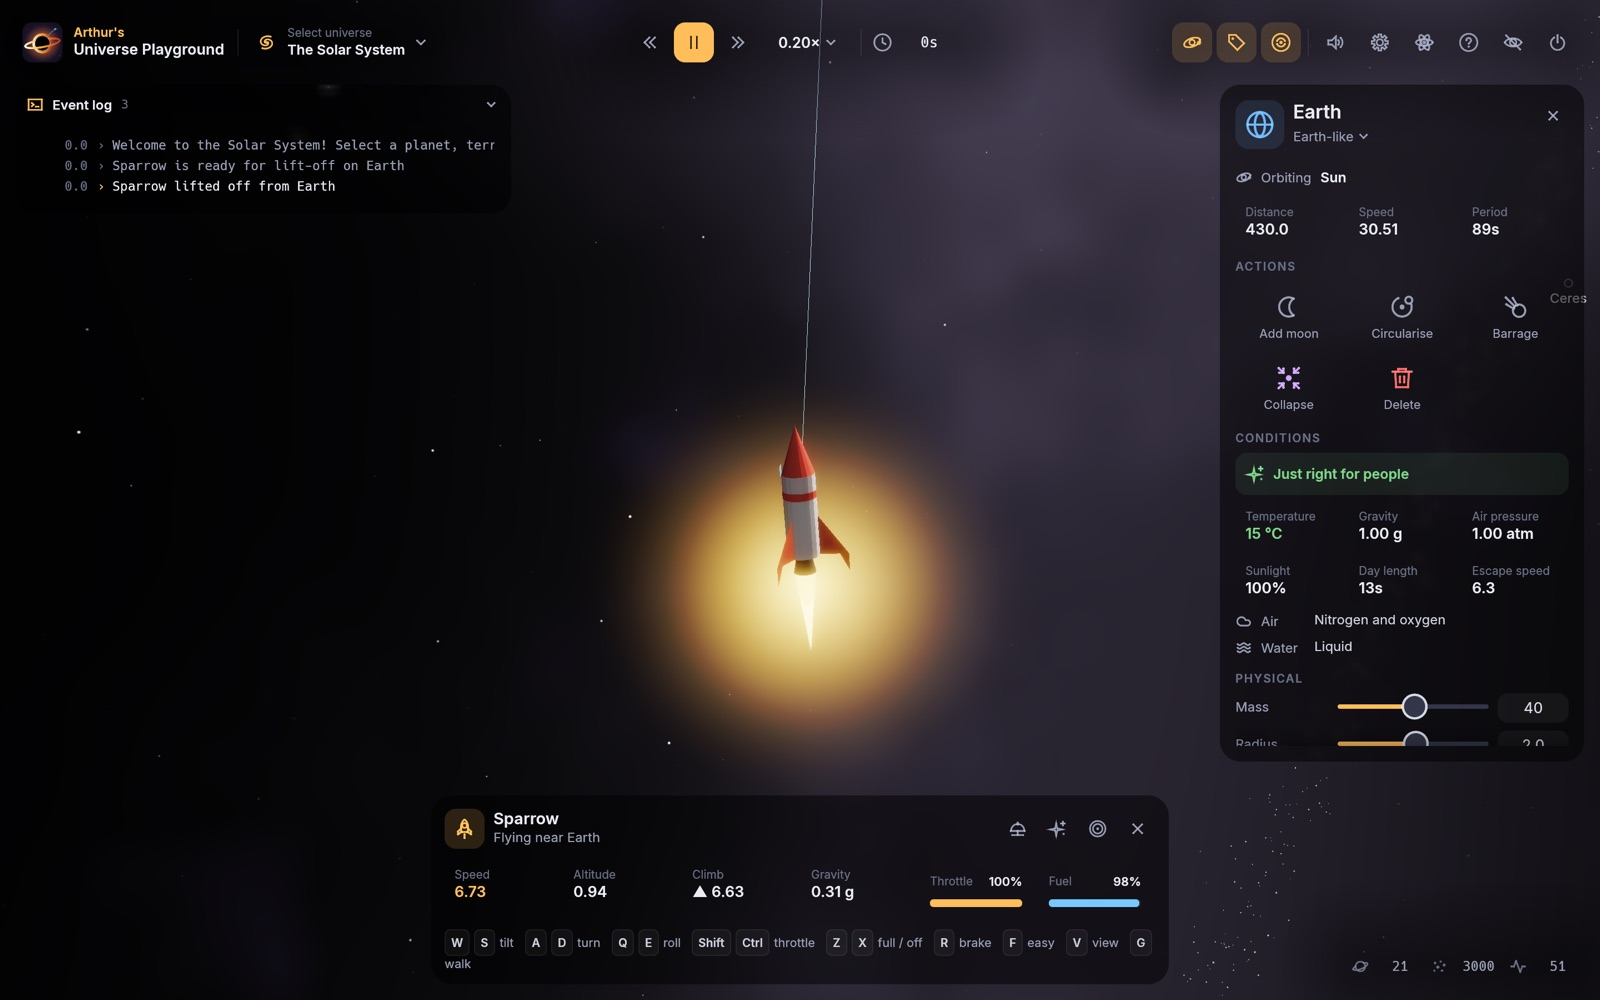
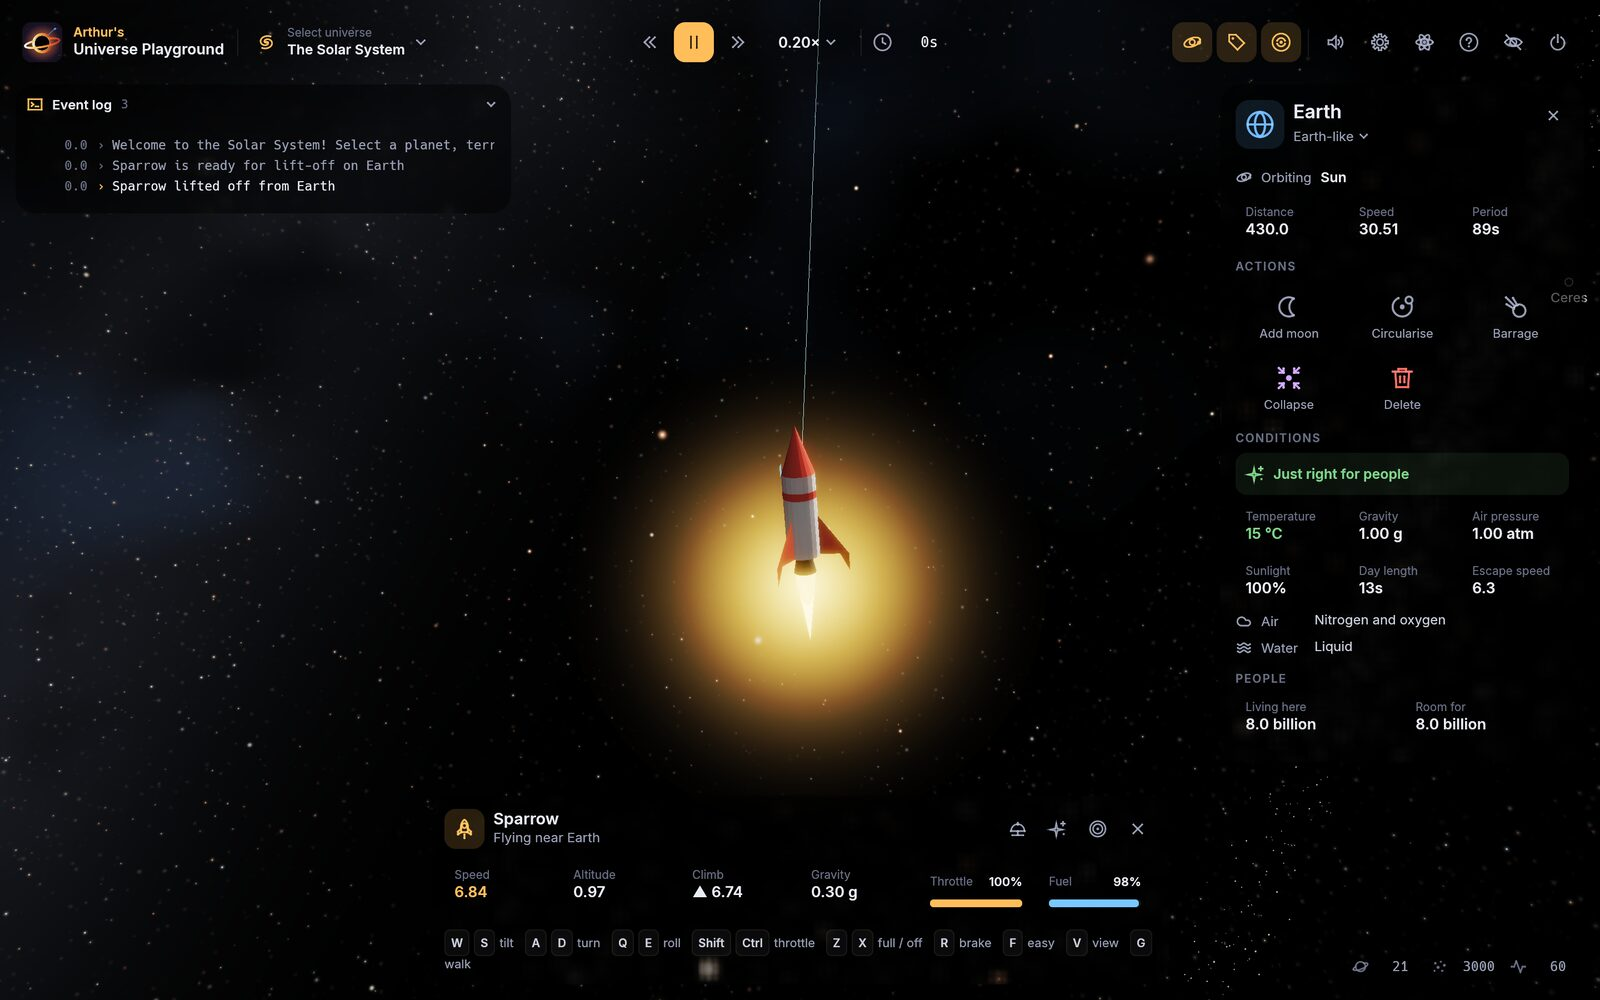
Arthur's Universe Playground 1.4.0
Added:
- Worlds have people, and everyone always escapes a disaster
- Glancing blows tear worlds in two, and can leave a moon in orbit
- The Theia Impact makes the Moon
- Dust from a smash counts when it lands

Changed:
- A deep-space background: dense stars, the Milky Way, gas and galaxies
- Crowded universes stay smooth at high speed
- Worlds moving apart after a brush no longer collide again
- Fresh README screenshots

diff --git a/CLAUDE.md b/CLAUDE.md
@@ -8,7 +8,7 @@ The project is fully vibe coded (the README says so). Every change is made by an
 
 ```sh
 cargo build --release          # always test and run release builds; debug is slow
-cargo test --release           # ~78 tests, ~30 s; CI runs `--locked`
+cargo test --release           # ~95 tests, ~15 s; CI runs `--locked`
 ./target/release/arthurs-universe-playground
 ```
 
@@ -45,6 +45,7 @@ $B --no-update-check --preset galaxy --speed 30 --zoom 1000 --frames 220 --hide-
 | `src/universe.rs` | N-body physics, collisions, particles, flashes, supernovae, `Sound` events |
 | `src/explore.rs` | Flying rockets (incl. easy flying) and walking on worlds |
 | `src/save.rs` | Save file format and the Saves window state |
+| `src/population.rs` | How many people live on each world: growth, moving away, settlers; `Universe::evacuate` when a world is destroyed |
 | `src/audio.rs` | Synthesized sound: `Mixer` (testable), `Audio` (cpal device), `SoundBridge` (game -> mixer) |
 | `src/settings.rs` | `Settings` with JSON load/save; `sanitize` clamps values |
 | `src/ui.rs`, `src/ui/hud.rs`, `src/ui/options.rs` | egui interface: bars, dock, tool cards, inspector, modals; flight/walk HUDs; Settings tabs |
@@ -70,13 +71,20 @@ $B --no-update-check --preset galaxy --speed 30 --zoom 1000 --frames 220 --hide-
 
 **Sound**: to add an effect, add a `Sound` variant (`universe.rs`), push it with `universe.sound(...)` where it happens, map it in `sfx_for` and give it a `recipe` in `audio.rs`. Listen without playing: `AUP_DEMO_WAV=demo.wav cargo test --release demo_wav -- --ignored`. Keep impacts deep rather than hissy, and music bells sparse and soft (the user found them annoying when frequent).
 
+**Physics** (`src/universe.rs`):
+- Particles can carry `mass` (rubble from a smash, a shredded world's stream; zero for decoration and galaxy stars). A body that swallows one gains its mass and momentum, so when a collision turns mass into dust, hand it over with `give_mass_to_newest` rather than dropping it. Collision tests check that mass and momentum add up, dust included.
+- A glancing hit goes through `graze` first: it works out which part of the smaller world is in the way (that part merges or shatters as usual) and which part sails past as a slowed "remnant" shedding pieces. Nothing is placed in orbit by hand; `name_new_moons` only labels a leftover that gravity has left circling. Whether a moon results depends on the hit and on chance (about half the time in the best case), so the Theia preset fixes its seed. When judging anything random like this, sweep many seeds, not one.
+- Work per frame is capped: `pair_budget` for bodies (tuned to the computer by `Game::tune_physics`, only when `physics_budget` is set, so tests and screenshot runs stay repeatable) and `PARTICLE_WORK` for particles. Check the cost of physics changes with many bodies at 100x, not just the presets at 1x.
+
+**People** (`src/population.rs`): `Body::population` follows the world's `conditions` verdict (Good: full room, Caution: bases only, Danger: none). Nobody is ever hurt: anything that destroys or tears a world must call `Universe::evacuate` first, and wording about people stays gentle (they "escape" or "leave", never die). New presets get their starting people from `population::settle`.
+
 **Tests**: `Game` runs headless (no GPU, no audio), so gameplay is tested by driving `Game` directly; see the `tests` modules in `game.rs`, `explore.rs`, `save.rs`, `audio.rs`. UI tests need `setup_style(&ctx)` first (fonts). Add a regression test with each bug fix and check it fails without the fix.
 
 ## Releasing
 
 The user rolls features into releases (1.2.2, 1.3.0, 1.3.1...). When asked to release:
 
-1. Split the work into **one commit per feature** for easy tracking (the user asked for this), each building and passing tests on its own. When files mix features, build each commit's version of them rather than committing everything at once.
+1. Group the work into **at most three commits** (the user asked for this on 2026-11-14, replacing the earlier one-commit-per-feature rule), each building and passing tests on its own: for example gameplay, graphics, then the release commit.
 2. Final commit: bump `version` in `Cargo.toml`, `cargo build` to update `Cargo.lock`, move the `[Unreleased]` notes in `CHANGELOG.md` under `## [x.y.z] - YYYY-MM-DD` and update the compare links. Message: `Arthur's Universe Playground x.y.z` with short `Added:` / `Changed:` / `Fixed:` lists.
 3. `git tag -a vx.y.z -m "Arthur's Universe Playground x.y.z"` and `git push origin main vx.y.z`. The tag triggers `release.yml`, which tests, packages the Windows .zip, macOS .dmg and Linux .tar.gz, and publishes the GitHub release with that CHANGELOG section as notes. Watch it with `gh run watch`.
 

diff --git a/README.md b/README.md
@@ -15,6 +15,7 @@ A space sandbox written in **Rust + Vulkan**. Start with the Solar System, then:
 - **Smash planets together.** Collisions use an impact-energy model: gentle hits merge (leaving craters and molten scars), harder ones shatter worlds into glowing fragments and debris that can re-accrete.
 - **Create your own universe.** Pick a centre (Sun-like star, red dwarf, blue giant, binary, black hole, nothing), the number of planets, moons, belts, rings, gravity strength and chaos.
 - **Fly rockets.** Pick one of six rockets, lift off from any solid world and fly under real gravity, with a chase camera or from the cockpit. Land gently, or crash spectacularly. Younger pilots can switch on **Easy flying** for endless fuel and landings that always work.
+- **Worlds with people.** Every solid world has a population that grows where conditions are just right, moves away when they turn bad, and sends settlers to empty worlds you make comfortable. Nobody is ever hurt: if a world is destroyed, its people escape in their rockets.
 - **Walk on worlds.** Stand on a planet, moon or asteroid, walk over its terrain and jump in its gravity. Climb out of a landed rocket and back in.
 - **Save your universes.** Save a universe you've built or painted and load it again later. The game also saves automatically when you close it, so you can carry on where you left off.
 - **Hear it.** Rumbling impacts, roaring rocket engines, footsteps, supernovae you feel in your chest, and calm space music. All of it is generated live by the game.
@@ -32,8 +33,8 @@ A space sandbox written in **Rust + Vulkan**. Start with the Solar System, then:
 | **Black hole:** lensing, a Doppler-beamed accretion disk and a photon ring | **Galaxy collision:** 68,000 stars, two cores and the tidal tails they fling out |
 | ![A rocket lifting off from Earth, with the flight panel below](docs/screenshots/flying.jpg) | ![Standing on Mars, with Phobos overhead and the conditions there](docs/screenshots/walking.jpg) |
 | **Flying:** lift off from any solid world under real gravity | **Walking:** stand on Mars and see what it's like there |
-| ![A blue supergiant's supernova blast wave](docs/screenshots/supernova.jpg) | ![Theia smashing into the young Earth, leaving it molten and surrounded by debris](docs/screenshots/planet-smash.jpg) |
-| **Supernova:** the blast wave, with a neutron star left behind | **Smash planets:** Theia hits the young Earth and shatters into glowing debris |
+| ![A blue supergiant's supernova blast wave](docs/screenshots/supernova.jpg) | ![The young Earth after Theia's glancing blow, with the newborn Moon in orbit](docs/screenshots/planet-smash.jpg) |
+| **Supernova:** the blast wave, with a neutron star left behind | **Smash planets:** Theia strikes the young Earth a glancing blow, and a piece left in orbit becomes the Moon |
 
 ## Download
 
@@ -53,7 +54,7 @@ See [CHANGELOG.md](CHANGELOG.md) for what changed in each version.
 |---|---|
 | The Solar System | Sun, 8 planets plus Pluto, the Moon, Galilean moons, Titan, Triton, rings, asteroid belt |
 | Solar System vs Rogue Black Hole | A black hole plows through the Solar System |
-| Theia Impact | A Mars-sized world hits the proto-Earth |
+| Theia Impact | A Mars-sized world strikes the proto-Earth a glancing blow, and a piece left in orbit becomes the Moon |
 | Head-on Planet Smash | Two worlds collide head-on |
 | Binary Star System | Circumbinary planets around two suns |
 | Black Hole Feast | A supermassive black hole, a doomed star and planets |

diff --git a/CHANGELOG.md b/CHANGELOG.md
@@ -7,6 +7,23 @@ and this project adheres to [Semantic Versioning](https://semver.org/spec/v2.0.0
 
 ## [Unreleased]
 
+## [1.4.0] - 2026-11-14
+
+### Added
+
+- **Worlds have people.** Every world with solid ground now has a population, shown in a new People section when you select it, next to how many it has room for. People multiply where it is just right, a few live in bases where a spacesuit is needed, and they move away if you make a world too hot, cold or airless. Settlers set out from a busy world to any empty one that is just right, so try making Mars comfortable. You can also set the number yourself. The Solar System starts with 8 billion on Earth.
+- **Everyone always escapes.** If a world with people on it is smashed, swallowed or scorched, the event log tells you they got away in their rockets.
+- **Glancing blows.** A world that only clips another is now torn in two: the part in the way sinks in, and the rest carries on past, slowed, with pieces coming off it. What happens next is up to gravity. Hit too fast and the remnant flies away; come in slowly and it loops round and falls back; and sometimes a leftover piece stays in orbit and becomes a moon. Nothing puts it there.
+- **The Theia Impact makes the Moon.** Theia now drifts in slowly and strikes at about 45 degrees, as the real one did. It is torn apart, most of it falls into the young Earth, and a piece that is left circling becomes the Moon.
+- **Dust counts.** Rubble from a smash that rains back onto a world makes it a little heavier and bigger, and a black hole that shreds a world goes on to swallow the rest of it bit by bit.
+
+### Changed
+
+- **Deep space looks like deep space.** The background now has thousands of stars of every brightness and colour, the Milky Way crossing the sky with its dark lanes of dust, wisps of pink and blue gas, and a few far-off galaxies. It costs no more to draw than the old one.
+- **Crowded universes stay smooth.** The game now measures how fast your computer is and never lets the physics take more than a small part of each frame. With hundreds of bodies at high speed, time runs a little slower than asked instead of the picture stuttering; hover over the speed to see how fast it is really going.
+- Two worlds that have just brushed past each other and are moving apart no longer count as colliding again.
+- Fresh README screenshots.
+
 ## [1.3.2] - 2026-11-14
 
 ### Changed
@@ -128,7 +145,8 @@ First public release.
 - Ten presets, including Theia Impact, Black Hole Feast, Supernova Countdown and Galaxy Collision.
 - Downloadable builds for Windows (x64), macOS (Apple Silicon, MoltenVK bundled) and Linux (x86_64), all with the app icon.
 
-[Unreleased]: https://github.com/jonbp/arthurs-universe-playground/compare/v1.3.2...HEAD
+[Unreleased]: https://github.com/jonbp/arthurs-universe-playground/compare/v1.4.0...HEAD
+[1.4.0]: https://github.com/jonbp/arthurs-universe-playground/compare/v1.3.2...v1.4.0
 [1.3.2]: https://github.com/jonbp/arthurs-universe-playground/compare/v1.3.1...v1.3.2
 [1.3.1]: https://github.com/jonbp/arthurs-universe-playground/compare/v1.3.0...v1.3.1
 [1.3.0]: https://github.com/jonbp/arthurs-universe-playground/compare/v1.2.2...v1.3.0
